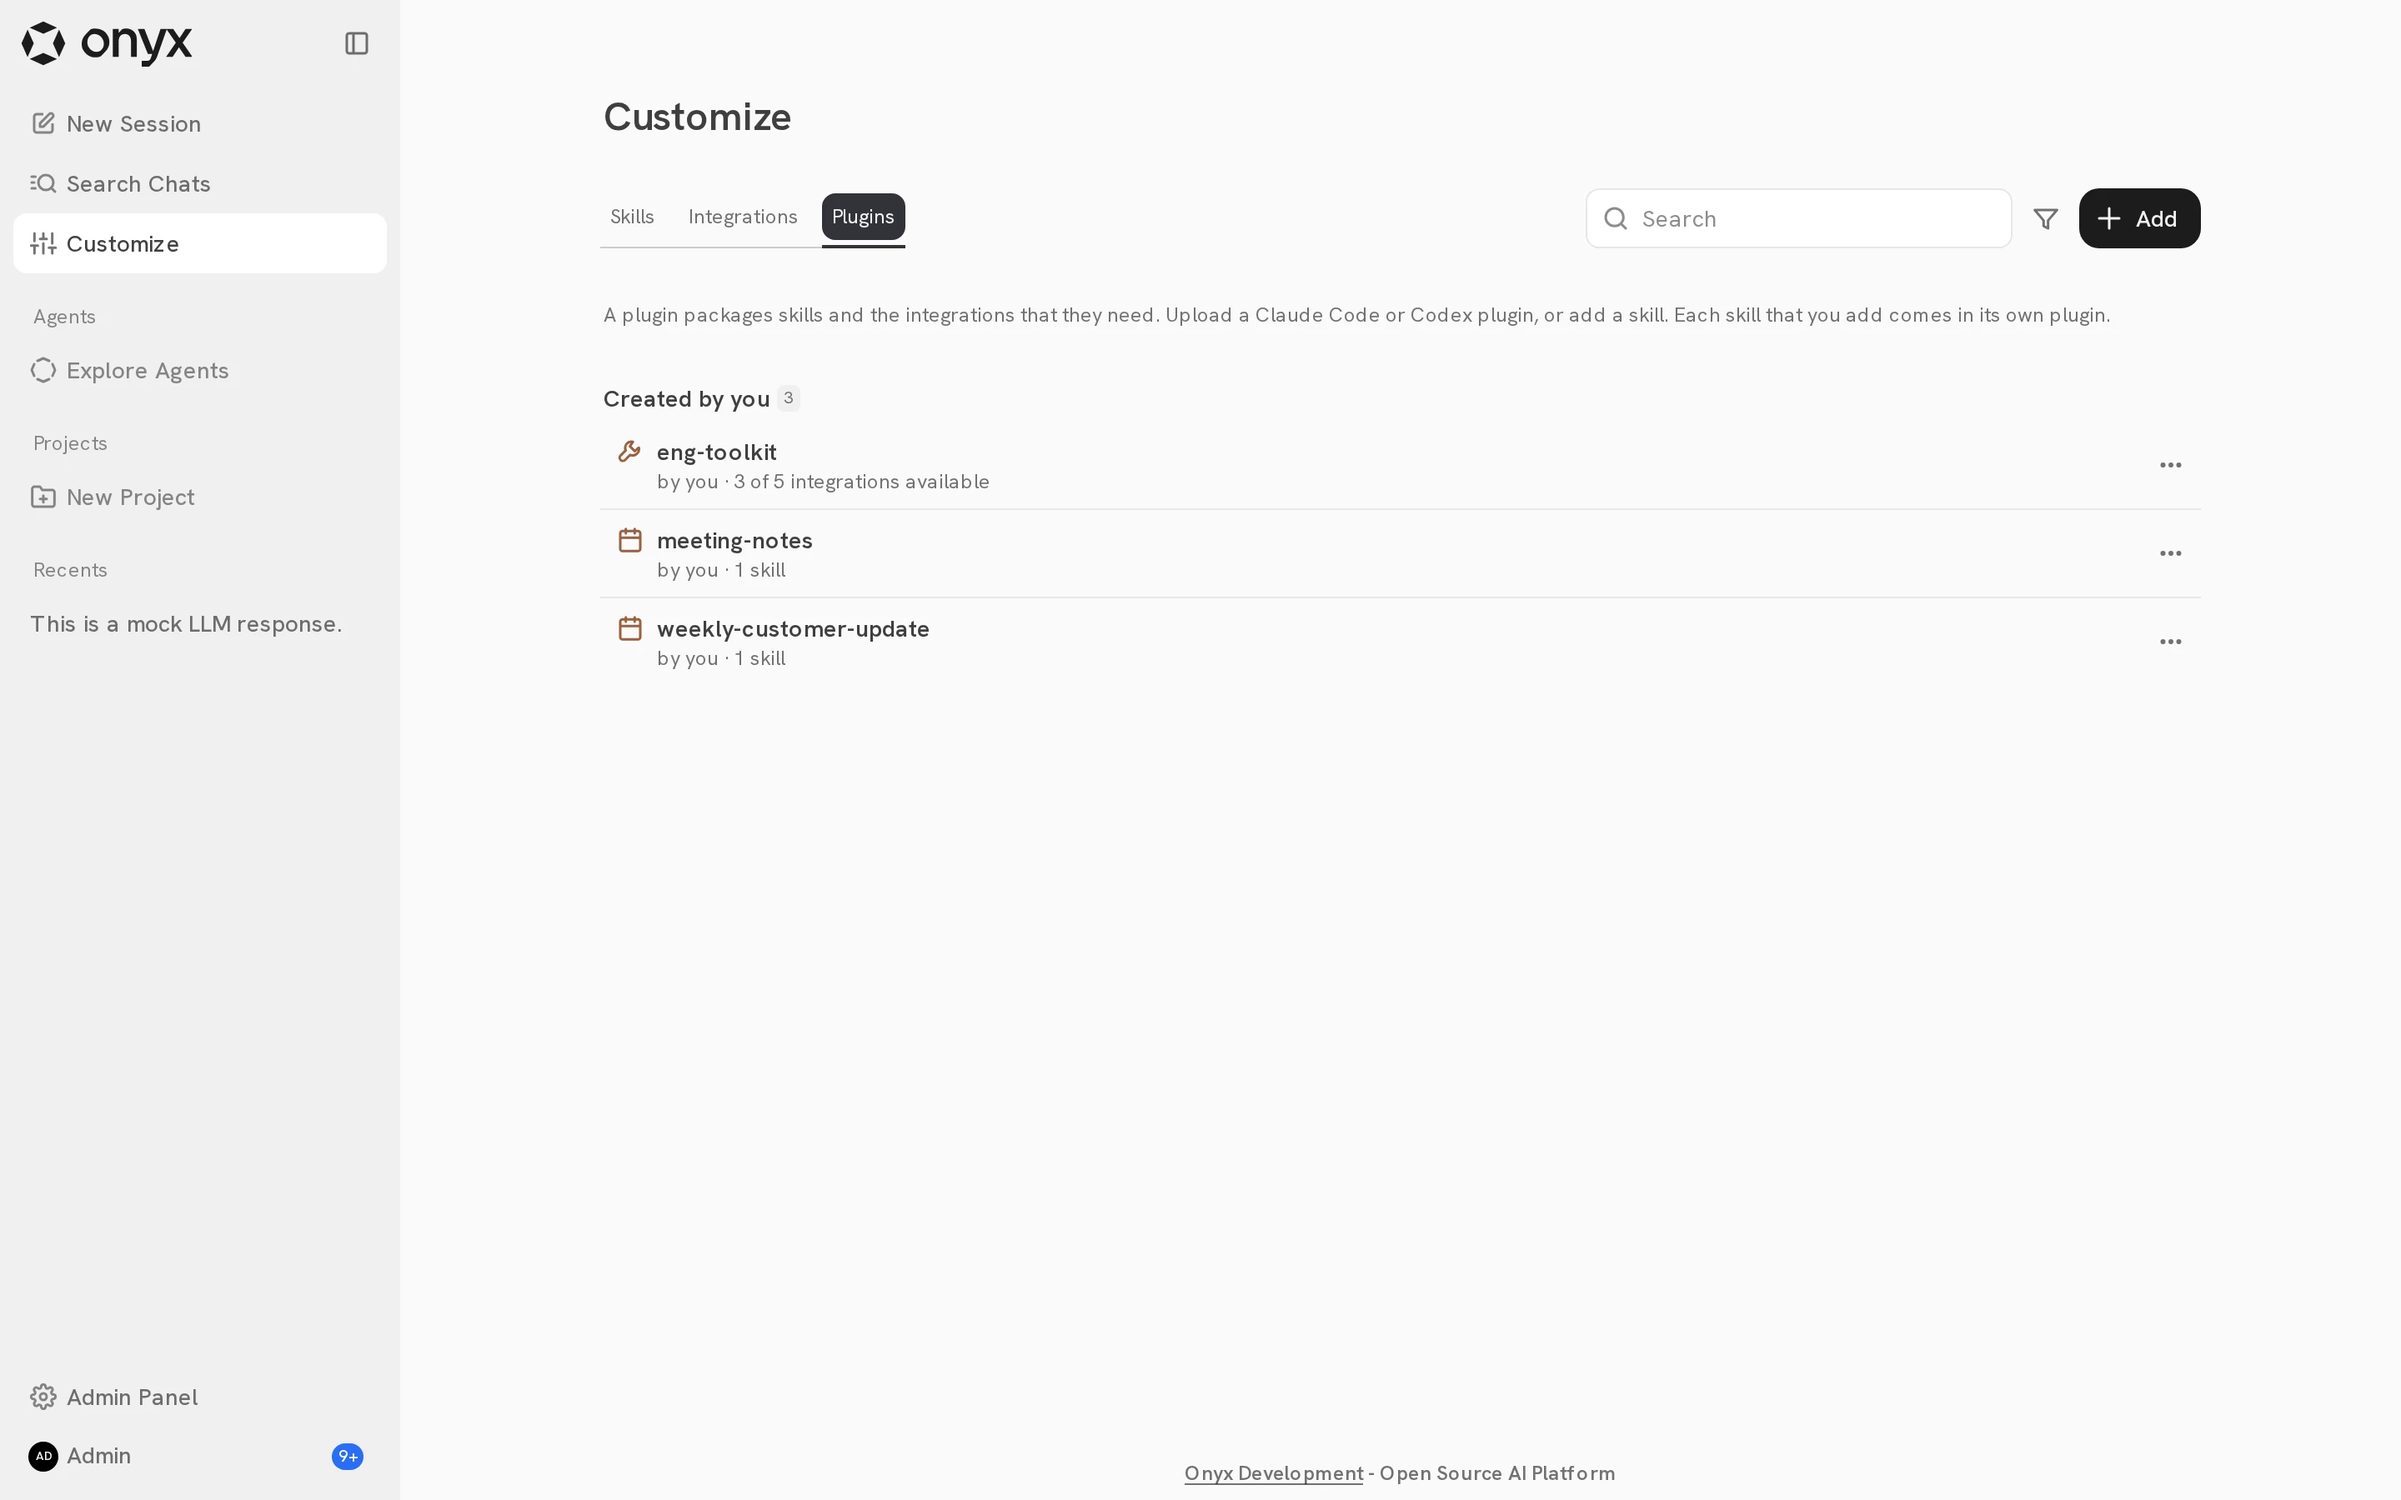
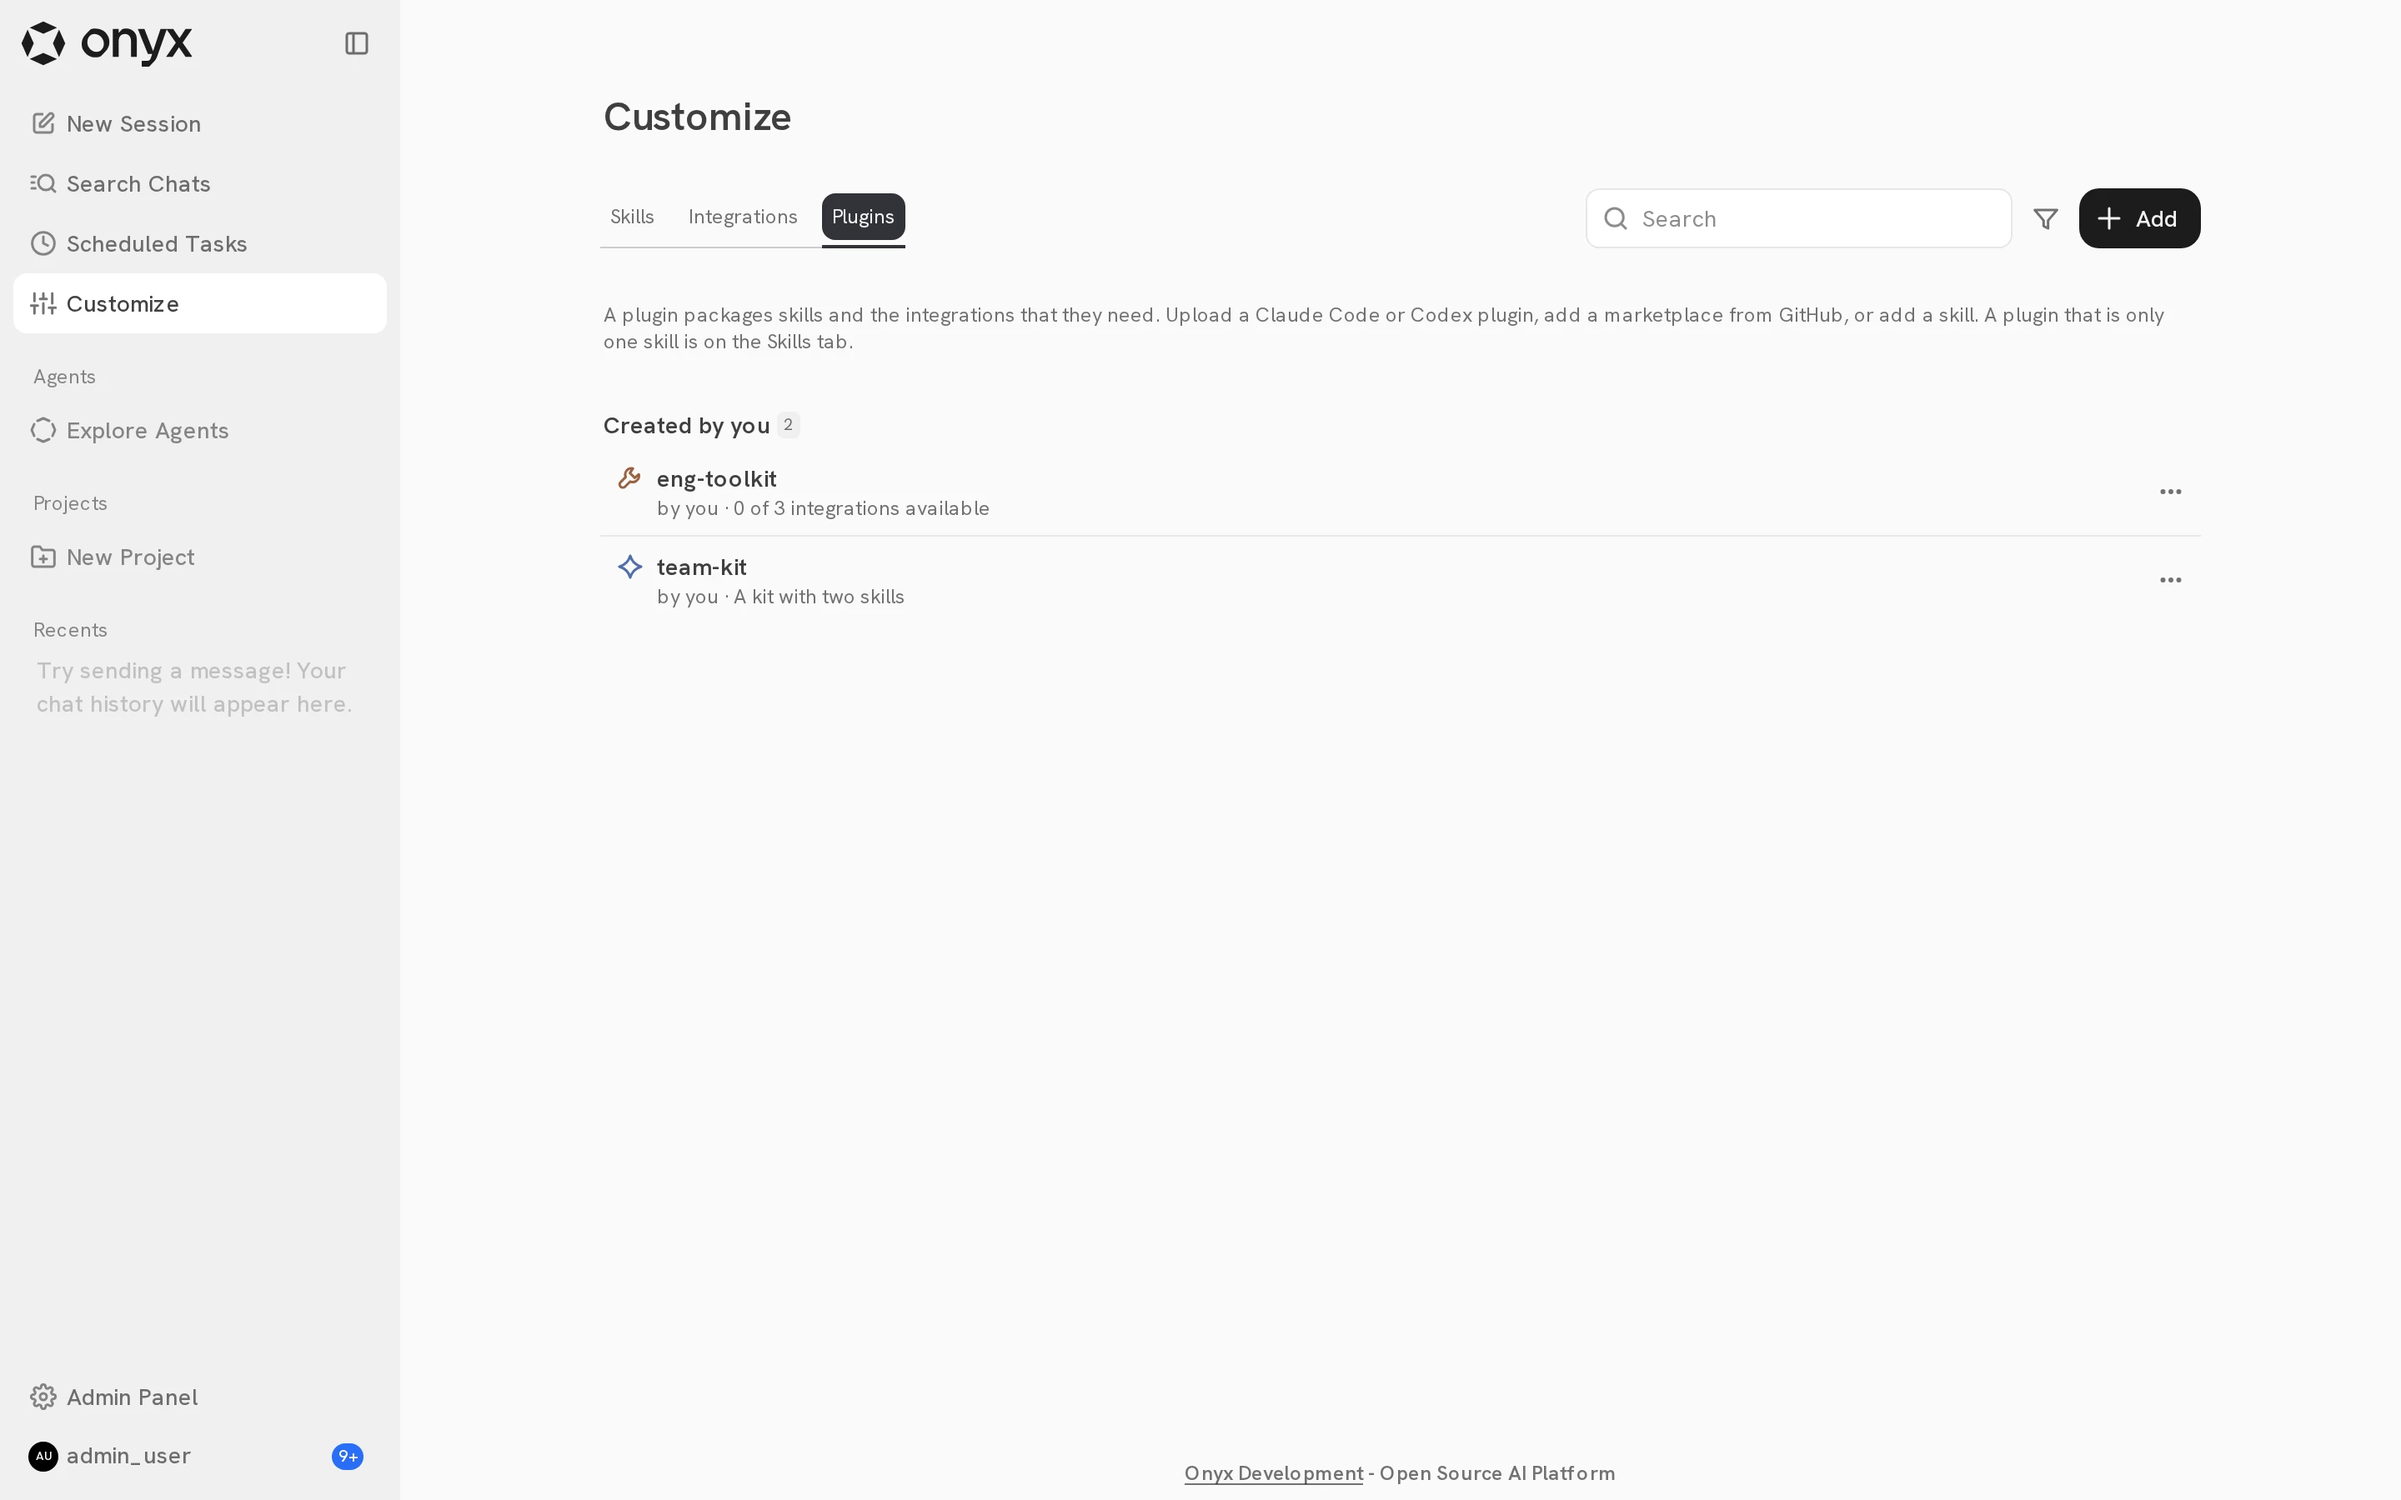
fix(customize): hide single-skill plugins from the Plugins tab (#18328)
## Description

The Customize **Plugins** tab (`/app/customize/plugins`) listed every
custom skill, including plugins that are only one `SKILL.md` at the
bundle root. The API already reports these as `kind: "skill"`
(`is_skill_version` in `backend/onyx/db/plugin.py`; no column stores
it). `CustomizePluginsPage` now keeps only `kind === "plugin"` entries.
Single-skill entries stay on the **Skills** tab, and the plugin detail
page still resolves them.

Also:
- The tab intro no longer says "Each skill that you add comes in its own
plugin"; it says single-skill plugins are on the Skills tab (all
locales).
- Docs (`overview/core_features/plugins.mdx`) and the feature map
describe the filter; the Plugins tab screenshot is recaptured.

## How Has This Been Tested?

- New Jest case in `CustomizePluginsPage.test.tsx`: a `kind: "skill"`
entry is left out. Fails without the fix, passes with it.
- Local dev stack: uploaded two multi-skill plugins (`team-kit`,
`eng-toolkit`) and three standalone `SKILL.md` skills. The Plugins tab
shows only the two plugins; the Skills tab still shows all five.

Before (desktop / mobile):

![before
[…]

diff --git a/web/src/sections/customize/CustomizePluginsPage.test.tsx b/web/src/sections/customize/CustomizePluginsPage.test.tsx
@@ -53,6 +53,23 @@ test("an admin's list leaves out the private plugins of other members", async ()
   expect(screen.queryByText("their-kit")).not.toBeInTheDocument();
 });
 
+test("a plugin that is only a root SKILL.md is left out", async () => {
+  window.history.replaceState(null, "", "/app/customize/plugins");
+  mockFetch({
+    "/api/skills": {
+      builtins: [],
+      customs: [
+        plugin("kit", "my-kit"),
+        plugin("lone", "lone-skill", { kind: "skill" }),
+      ],
+    },
+  });
+  render(<CustomizePluginsPage />);
+
+  expect(await screen.findByText("my-kit")).toBeInTheDocument();
+  expect(screen.queryByText("lone-skill")).not.toBeInTheDocument();
+});
+
 test("a plugin that is off because another plugin holds its skill name says so", async () => {
   window.history.replaceState(null, "", "/app/customize/plugins");
   mockFetch({

diff --git a/web/src/sections/customize/CustomizePluginsPage.tsx b/web/src/sections/customize/CustomizePluginsPage.tsx
@@ -180,7 +180,9 @@ export default function CustomizePluginsPage() {
 
   const userEmail = user?.email ?? null;
   const entries = memberPluginEntries(
-    (skills.data?.customs ?? []).filter((skill) => skill.member_visible),
+    (skills.data?.customs ?? []).filter(
+      (skill) => skill.member_visible && skill.kind === "plugin"
+    ),
     userEmail,
     locale
   );

diff --git a/.agents/feature-map/components/plugins.md b/.agents/feature-map/components/plugins.md
@@ -54,8 +54,9 @@ Group or user restriction needs EE.
   `lib/plugins/directory.ts:memberPluginEntries` in the groups Created by you
   (the user's own, published or not), From your organization and Shared with you
   (`lib/customize/plugins.ts:groupPlugins`), with its skill count, Turn on and a
-  row menu (Turn on/off, Share). An admin's list leaves out the plugins that
-  are not `member_visible`. The plugin page
+  row menu (Turn on/off, Share). The list leaves out skill-kind entries (one
+  SKILL.md at the bundle root; they are on Skills), and an admin's list
+  leaves out the plugins that are not `member_visible`. The plugin page
   (`sections/plugins/MemberPluginDetailPage.tsx`) has Share, a "..." menu
   (Upload New Version through `sections/modals/plugins/UploadPluginFlow.tsx`,
   Delete Plugin) and the switch in its header. A needed integration that is
